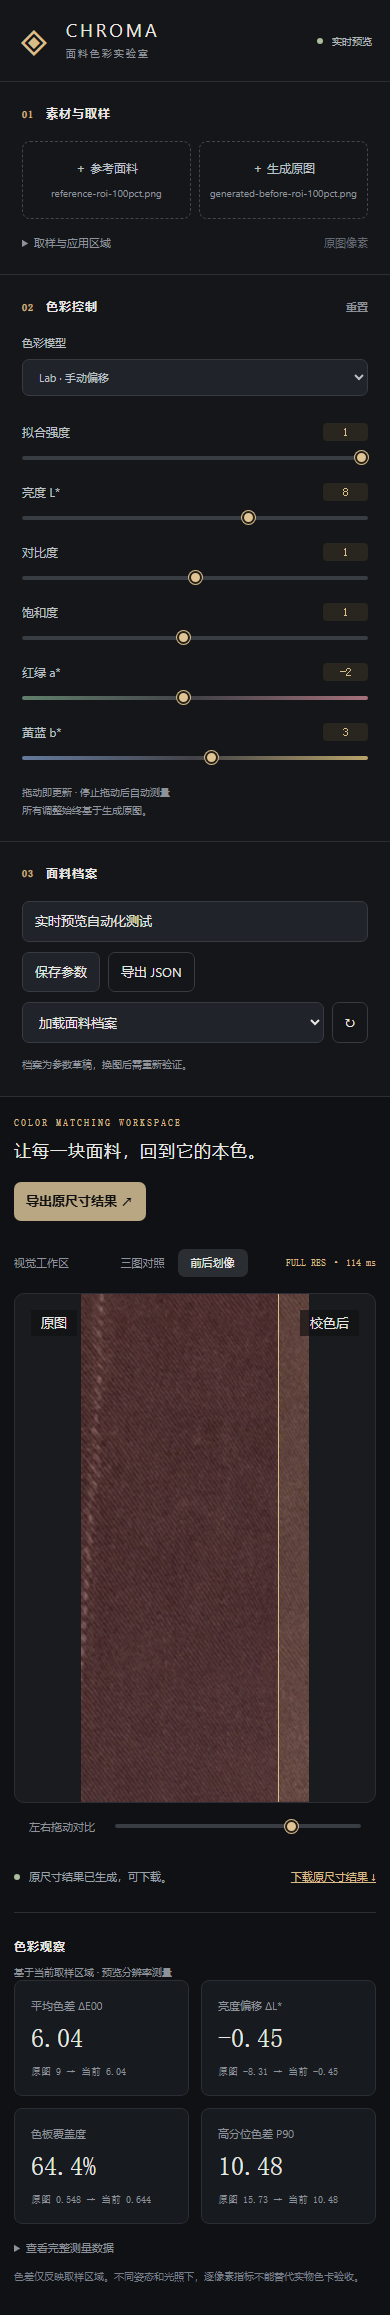
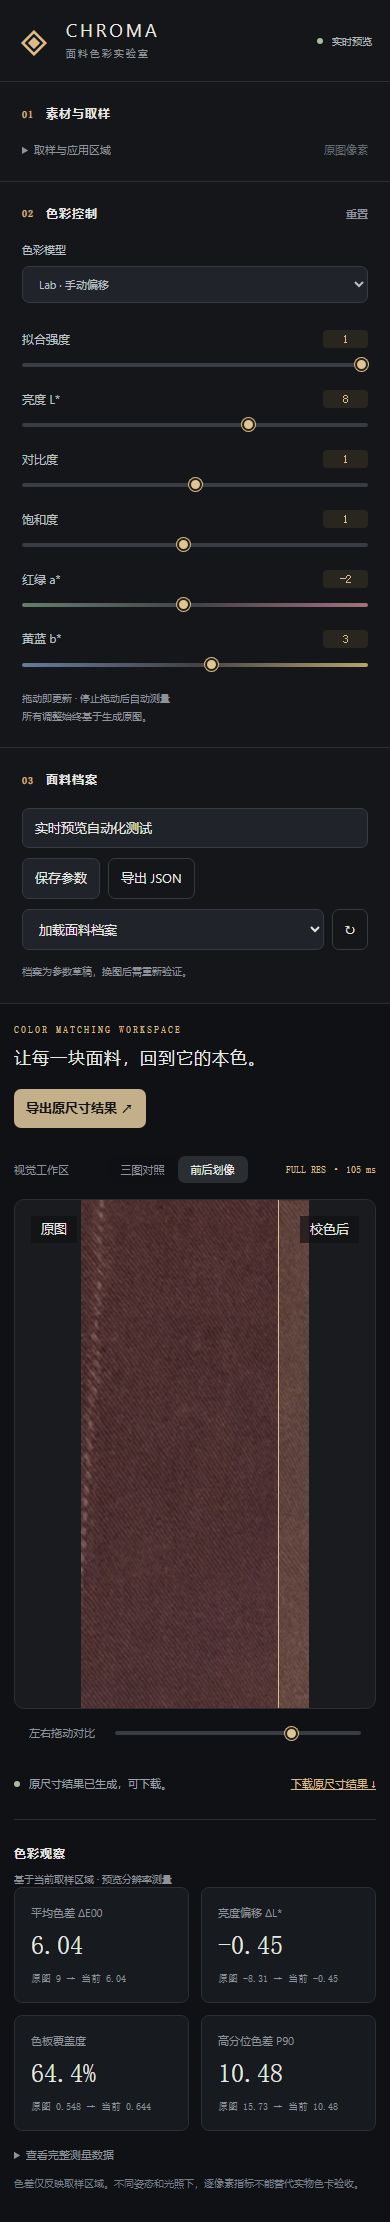
feat(color-lab): upload images directly in preview zones

diff --git a/tools/color-lab/style.css b/tools/color-lab/style.css
@@ -1,3 +1,5 @@
 :root{--bg:#0f1114;--panel:#171a1e;--line:#2b2e34;--text:#e8e7e2;--muted:#8d929b;--accent:#d9bd89}*{box-sizing:border-box}body{margin:0;background:var(--bg);color:var(--text);font:13px/1.6 'Segoe UI','Microsoft YaHei',sans-serif}header{height:82px;padding:0 32px;display:flex;align-items:center;justify-content:space-between;border-bottom:1px solid var(--line);background:#141619}.brand{display:flex;gap:13px;font-size:21px;letter-spacing:3px}.logo{font-size:38px;color:var(--accent);line-height:1.3}.brand small{display:block;color:var(--muted);font-size:10px;letter-spacing:2px}.tag{font-size:9px;color:var(--accent);letter-spacing:2px;margin-left:12px}.header-right{display:flex;align-items:center;gap:9px;font-size:12px;color:#b4b8be}.version{margin-left:22px;padding:4px 12px;border:1px solid var(--line);border-radius:20px;color:var(--muted)}.live-dot{display:inline-block;width:6px;height:6px;border-radius:50%;background:#aabd9e;flex-shrink:0}main{display:grid;grid-template-columns:minmax(0,1fr) 320px}aside{grid-column:2;grid-row:1;border-left:1px solid var(--line);background:#141619}main>article{grid-column:1;grid-row:1}aside section{padding:22px;border-bottom:1px solid var(--line)}h2{font-size:12px;letter-spacing:1px;margin:0 0 18px;font-weight:600;display:flex;align-items:center;gap:12px}h2>span{font-size:10px;color:var(--accent);font-family:monospace}button,input,select{font:inherit;color:inherit}button,select,input:not([type=range]):not([type=file]){border:1px solid #373a41;background:#202329;border-radius:7px;padding:9px 12px}button{cursor:pointer;transition:.18s}button:hover{border-color:var(--accent);color:var(--accent)}button:disabled{opacity:.4;cursor:wait}button:focus-visible,input:focus-visible,select:focus-visible{outline:2px solid var(--accent);outline-offset:3px}input:not([type=range]):not([type=file]),select{width:100%;min-width:0}label{display:block;color:#bcc0c6}small{font-size:10px;color:var(--muted)}.uploads{display:grid;grid-template-columns:1fr 1fr;gap:8px}.upload{position:relative;border:1px dashed #44464b;border-radius:8px;padding:17px 10px;font-size:12px;text-align:center;cursor:pointer}.upload:hover{border-color:var(--accent);background:#24211c}.upload small{display:block;white-space:nowrap;overflow:hidden;text-overflow:ellipsis;margin-top:7px}.upload input{position:absolute;inset:0;opacity:0;width:100%;cursor:pointer}details{margin-top:15px}summary{cursor:pointer;color:var(--muted);font-size:11px}summary span{float:right;color:#626872}details label{font-size:11px;margin-top:10px}.model-label{font-size:11px}.model-label select{margin-top:7px;margin-bottom:10px}.text-button{margin-left:auto;border:0;background:transparent;padding:0;color:var(--muted);font-size:11px}.control{margin:17px 0}.control-top{display:flex;justify-content:space-between;align-items:center;font-size:12px}.control-top output{font:12px monospace;color:var(--accent);background:#29261f;min-width:45px;text-align:center;border-radius:4px;padding:2px 5px}input[type=range]{appearance:none;width:100%;height:4px;border-radius:9px;background:#383c43;margin:14px 0 4px;cursor:pointer;accent-color:var(--accent)}input[type=range]::-webkit-slider-thumb{appearance:none;width:13px;height:13px;background:#e1c493;border:2px solid #24211b;border-radius:50%;box-shadow:0 0 0 1px #d9bd89}.control[data-key=a_shift] input{background:linear-gradient(90deg,#617f6b,#424248,#a5717b)}.control[data-key=b_shift] input{background:linear-gradient(90deg,#657a9d,#424248,#b8a36a)}.hint{display:block;line-height:1.8}.row{display:flex;gap:8px;margin:10px 0}.row select{flex:1}.row button{white-space:nowrap}.secondary{background:transparent}.primary{background:var(--accent);color:#25221a;border:0;font-weight:600}.primary:hover{color:#111;background:#ecd4a7}article{padding:28px 30px;min-width:0}.workspace-heading{display:flex;align-items:center;justify-content:space-between;gap:18px;margin-bottom:28px}.eyebrow{font:10px monospace;letter-spacing:2px;color:var(--accent);margin:0 0 9px}h1{font-size:21px;font-weight:500;margin:0;letter-spacing:1px}.viewbar{display:flex;justify-content:space-between;align-items:center;margin-bottom:16px;color:var(--muted);font-size:11px}.viewbar button{font-size:11px;padding:5px 13px;border:none;background:transparent;color:var(--muted)}.viewbar button.active{background:#2a2d32;color:var(--text)}#preview-badge{font:10px monospace;color:var(--accent)}.images{display:grid;grid-template-columns:repeat(3,minmax(0,1fr));gap:12px}figure{margin:0;border:1px solid var(--line);border-radius:10px;overflow:hidden;background:#17191d}figure.result{border-color:#6d6047}figcaption{padding:12px;display:flex;align-items:center;justify-content:space-between;font-size:11px}figcaption b{font:8px monospace;letter-spacing:1px;color:#757c86}.result figcaption b{color:var(--accent)}.image-stage{height:clamp(290px,40vw,510px);position:relative;background:radial-gradient(ellipse at center,#24262b,#191b1f);display:flex;align-items:center;justify-content:center}.image-stage img{width:100%;height:100%;object-fit:contain;position:relative}.image-stage img:not([src]){display:none}.empty{position:absolute;text-align:center;color:#797f88;font-size:12px}.empty small{display:block;margin-top:8px}.image-stage:has(img[src]) .empty{display:none}.statusbar{display:flex;align-items:center;gap:9px;min-height:54px;color:#9ba1aa;font-size:11px}#status{flex:1;overflow-wrap:anywhere}a{color:var(--accent)}.metric-heading{display:flex;justify-content:space-between;border-top:1px solid var(--line);padding-top:24px;margin-top:8px}.metric-heading span{color:var(--muted);font-size:10px}#metric-cards{display:grid;grid-template-columns:repeat(4,1fr);gap:12px}#metric-cards>div{background:var(--panel);border:1px solid var(--line);border-radius:8px;padding:16px;font-size:11px;color:var(--muted)}#metric-cards strong{display:block;font:26px/1.8 monospace;color:var(--text)}#metric-cards small{font-family:monospace}.footnote{font-size:10px;color:#777e87;line-height:1.8}.metric-details{font-size:11px}.metric-details pre{max-height:220px;overflow:auto;color:#a1a9b4}.split-stage{position:relative;height:510px;background:#191b1f;border:1px solid var(--line);border-radius:10px;overflow:hidden}.split-stage img{position:absolute;width:100%;height:100%;object-fit:contain}.split-stage img:not([src]){display:none}#split-after{clip-path:inset(0 0 0 50%)}.split-line{position:absolute;left:50%;top:0;bottom:0;width:1px;background:var(--accent)}.before-label,.after-label{position:absolute;top:16px;background:#111a;padding:3px 10px}.before-label{left:16px}.after-label{right:16px}.split-control{display:flex;align-items:center;gap:20px;margin:15px;color:var(--muted)}.split-control input{flex:1;margin:0}[hidden]{display:none!important}@media(max-width:1100px){main{grid-template-columns:minmax(0,1fr) 285px}article{padding:22px 18px}h1{font-size:17px}.workspace-heading{align-items:flex-start;flex-direction:column}.tag{display:none}figcaption b{display:none}}@media(max-width:760px){header{padding:0 18px}.version{display:none}main{display:flex;flex-direction:column}aside{border:0;display:grid;grid-template-columns:1fr 1fr}aside section:last-child{grid-column:1/-1}.images{gap:6px}.image-stage{height:280px}article{padding:20px 14px}#metric-cards{grid-template-columns:repeat(2,1fr)}.metric-heading{flex-direction:column}.metric-heading h2{margin-bottom:8px}}@media(prefers-reduced-motion:reduce){*{transition:none!important}}
 @media(max-width:760px){aside{grid-template-columns:minmax(0,1fr)}aside section{min-width:0}article{min-width:0;width:100%}.viewbar{flex-wrap:wrap;gap:8px}.metric-heading span{white-space:normal}.statusbar{flex-wrap:wrap}header .brand{font-size:18px}.header-right{font-size:10px;white-space:nowrap}.images figure{min-width:0}figcaption{font-size:9px;padding:8px 5px}.split-control{font-size:11px}}
 .uploads{grid-template-columns:repeat(2,minmax(0,1fr))}.upload{min-width:0}
+
+.upload-stage{cursor:pointer}.upload-stage input[type=file]{position:absolute;inset:0;width:100%;height:100%;opacity:0;z-index:3;cursor:pointer}.upload-caption{position:absolute;bottom:12px;left:12px;right:12px;z-index:2;text-align:center;padding:7px 10px;background:#111c;border:1px solid #ffffff18;border-radius:6px;font-size:10px;color:#c9c6bf;overflow:hidden;text-overflow:ellipsis;white-space:nowrap;pointer-events:none}.upload-stage:hover,.upload-stage:focus-within{box-shadow:inset 0 0 0 2px var(--accent)}.upload-stage.drag-over{box-shadow:inset 0 0 0 3px var(--accent);background:#393124}.upload-stage.drag-over img{opacity:.4}.upload-stage.drag-over .upload-caption{color:var(--accent)}

diff --git a/tools/color-lab/index.html b/tools/color-lab/index.html
@@ -1,12 +1,12 @@
 <!doctype html><html lang="zh-CN"><head><meta charset="utf-8"><meta name="viewport" content="width=device-width,initial-scale=1"><title>CHROMA · 面料色彩实验室</title><link rel="stylesheet" href="/style.css"></head><body>
 <header><div class="brand"><span class="logo">◈</span><div>CHROMA <span class="tag">FABRIC LAB</span><small>面料色彩实验室</small></div></div><div class="header-right"><span class="live-dot"></span> 实时预览 <span class="version">技术验证 · 01</span></div></header>
 <main><aside>
-<section><h2><span>01</span> 素材与取样</h2><div class="uploads"><label class="upload">＋ 参考面料<input id="ref" type="file" accept="image/*"><small id="ref-name">选择标准色参考图</small></label><label class="upload">＋ 生成原图<input id="src" type="file" accept="image/*"><small id="src-name">选择待校正图片</small></label></div><details><summary>取样与应用区域 <span>原图像素</span></summary><label>参考纯布面<input id="rr" value="0,0,256,256"></label><label>生成纯布面<input id="sr" value="0,0,256,256"></label><label>应用区域<input id="ar" value="0,0,256,256"></label><small>坐标格式 x,y,宽,高。默认全图；矩形区域适用于纯布面技术验证。</small></details></section>
+<section><h2><span>01</span> 素材与取样</h2><details><summary>取样与应用区域 <span>原图像素</span></summary><label>参考纯布面<input id="rr" value="0,0,256,256"></label><label>生成纯布面<input id="sr" value="0,0,256,256"></label><label>应用区域<input id="ar" value="0,0,256,256"></label><small>坐标格式 x,y,宽,高。默认全图；矩形区域适用于纯布面技术验证。</small></details></section>
 <section><h2><span>02</span> 色彩控制 <button id="reset" class="text-button">重置</button></h2><label class="model-label">色彩模型<select id="model"><option value="manual">Lab · 手动偏移</option><option value="affine">Lab · 均值 / 方差匹配</option><option value="quantile">Lab · 分位数匹配</option></select></label><div id="controls"></div><small class="hint">拖动即更新 · 停止拖动后自动测量<br>所有调整始终基于生成原图。</small></section>
 <section><h2><span>03</span> 面料档案</h2><input id="name" placeholder="命名面料，例如：暖棕细斜纹"><div class="row"><button id="save">保存参数</button><button id="export" class="secondary">导出 JSON</button></div><div class="row"><select id="profiles"><option value="">加载面料档案</option></select><button id="refresh" class="secondary" title="刷新档案">↻</button></div><small>档案为参数草稿，换图后需重新验证。</small></section>
 </aside><article><div class="workspace-heading"><div><p class="eyebrow">COLOR MATCHING WORKSPACE</p><h1>让每一块面料，回到它的本色。</h1></div><button id="run" class="primary">导出原尺寸结果 ↗</button></div>
 <div class="viewbar"><span>视觉工作区</span><div><button id="view-grid" class="active">三图对照</button><button id="view-split">前后划像</button></div><span id="preview-badge">等待素材</span></div>
-<div class="images" id="grid"><figure><figcaption><span>01 · 色彩参考</span><b>REFERENCE</b></figcaption><div class="image-stage"><span class="empty">上传参考面料<br><small>建立你的色彩基准</small></span><img id="ri" alt="参考面料"></div></figure><figure><figcaption><span>02 · 生成原图</span><b>ORIGINAL</b></figcaption><div class="image-stage"><span class="empty">上传生成图片<br><small>保留原始输出</small></span><img id="si" alt="生成原图"></div></figure><figure class="result"><figcaption><span>03 · 实时校色</span><b>LIVE</b></figcaption><div class="image-stage"><span class="empty">你的调整会显示在这里<br><small>移动左侧滑块开始</small></span><img id="oi" alt="校色结果"></div></figure></div>
+<div class="images" id="grid"><figure><figcaption><span>01 · 色彩参考</span><b>REFERENCE</b></figcaption><div class="image-stage upload-stage" data-upload="ref"><input id="ref" type="file" accept="image/*" aria-label="上传或更换参考面料"><span class="upload-caption" id="ref-name">点击或拖拽上传参考面料</span><span class="empty">＋ 点击或拖拽参考面料<br><small>建立你的色彩基准</small></span><img id="ri" alt="参考面料"></div></figure><figure><figcaption><span>02 · 生成原图</span><b>ORIGINAL</b></figcaption><div class="image-stage upload-stage" data-upload="src"><input id="src" type="file" accept="image/*" aria-label="上传或更换生成原图"><span class="upload-caption" id="src-name">点击或拖拽上传生成原图</span><span class="empty">＋ 点击或拖拽生成图片<br><small>保留原始输出</small></span><img id="si" alt="生成原图"></div></figure><figure class="result"><figcaption><span>03 · 实时校色</span><b>LIVE</b></figcaption><div class="image-stage"><span class="empty">你的调整会显示在这里<br><small>移动左侧滑块开始</small></span><img id="oi" alt="校色结果"></div></figure></div>
 <div id="split" hidden><div class="split-stage"><img id="split-before" alt="调整前"><img id="split-after" alt="调整后"><div class="split-line"></div><span class="before-label">原图</span><span class="after-label">校色后</span></div><label class="split-control">左右拖动对比<input id="wipe" type="range" min="0" max="100" value="50" aria-label="前后划像位置"></label></div>
 <div class="statusbar"><span class="live-dot"></span><span id="status" role="status">上传两张图片，开启实时校色。</span><a id="download" hidden download="color-preview.png">下载原尺寸结果 ↓</a></div>
 <div class="metric-heading"><h2>色彩观察</h2><span>基于当前取样区域 · 预览分辨率测量</span></div><div id="metric-cards"><div>平均色差 ΔE00<strong>—</strong><small>等待测量</small></div><div>亮度偏移 ΔL*<strong>—</strong><small>等待测量</small></div><div>色板覆盖度<strong>—</strong><small>等待测量</small></div><div>高分位色差 P90<strong>—</strong><small>等待测量</small></div></div><details class="metric-details"><summary>查看完整测量数据</summary><pre id="metrics"></pre></details><p class="footnote">色差仅反映取样区域。不同姿态和光照下，逐像素指标不能替代实物色卡验收。</p>

diff --git a/tools/color-lab/app.js b/tools/color-lab/app.js
@@ -38,3 +38,17 @@ $('export').onclick=()=>{const a=document.createElement('a');a.href=URL.createOb
 $('wipe').oninput=()=>{$('split-after').style.clipPath=`inset(0 0 0 ${$('wipe').value}%)`;document.querySelector('.split-line').style.left=$('wipe').value+'%'};
 for(const type of ['grid','split'])$('view-'+type).onclick=()=>{$('grid').hidden=type!=='grid';$('split').hidden=type!=='split';$('view-grid').classList.toggle('active',type==='grid');$('view-split').classList.toggle('active',type==='split')};
 refresh().catch(e=>$('status').textContent=e.message);
+
+// 预览区直接接收文件，复用点击选择时的解码与实时预览逻辑。
+document.querySelectorAll('[data-upload]').forEach(zone=>{
+ let depth=0;
+ zone.addEventListener('dragenter',event=>{event.preventDefault();depth++;zone.classList.add('drag-over')});
+ zone.addEventListener('dragover',event=>{event.preventDefault();event.dataTransfer.dropEffect='copy'});
+ zone.addEventListener('dragleave',()=>{if(--depth<=0){depth=0;zone.classList.remove('drag-over')}});
+ zone.addEventListener('drop',event=>{
+  event.preventDefault();depth=0;zone.classList.remove('drag-over');
+  const file=event.dataTransfer.files[0];if(!file)return;
+  if(!file.type.startsWith('image/')){$('status').textContent='请拖入图片文件';return}
+  const input=$(zone.dataset.upload),transfer=new DataTransfer();transfer.items.add(file);input.files=transfer.files;input.dispatchEvent(new Event('change',{bubbles:true}));
+ });
+});
